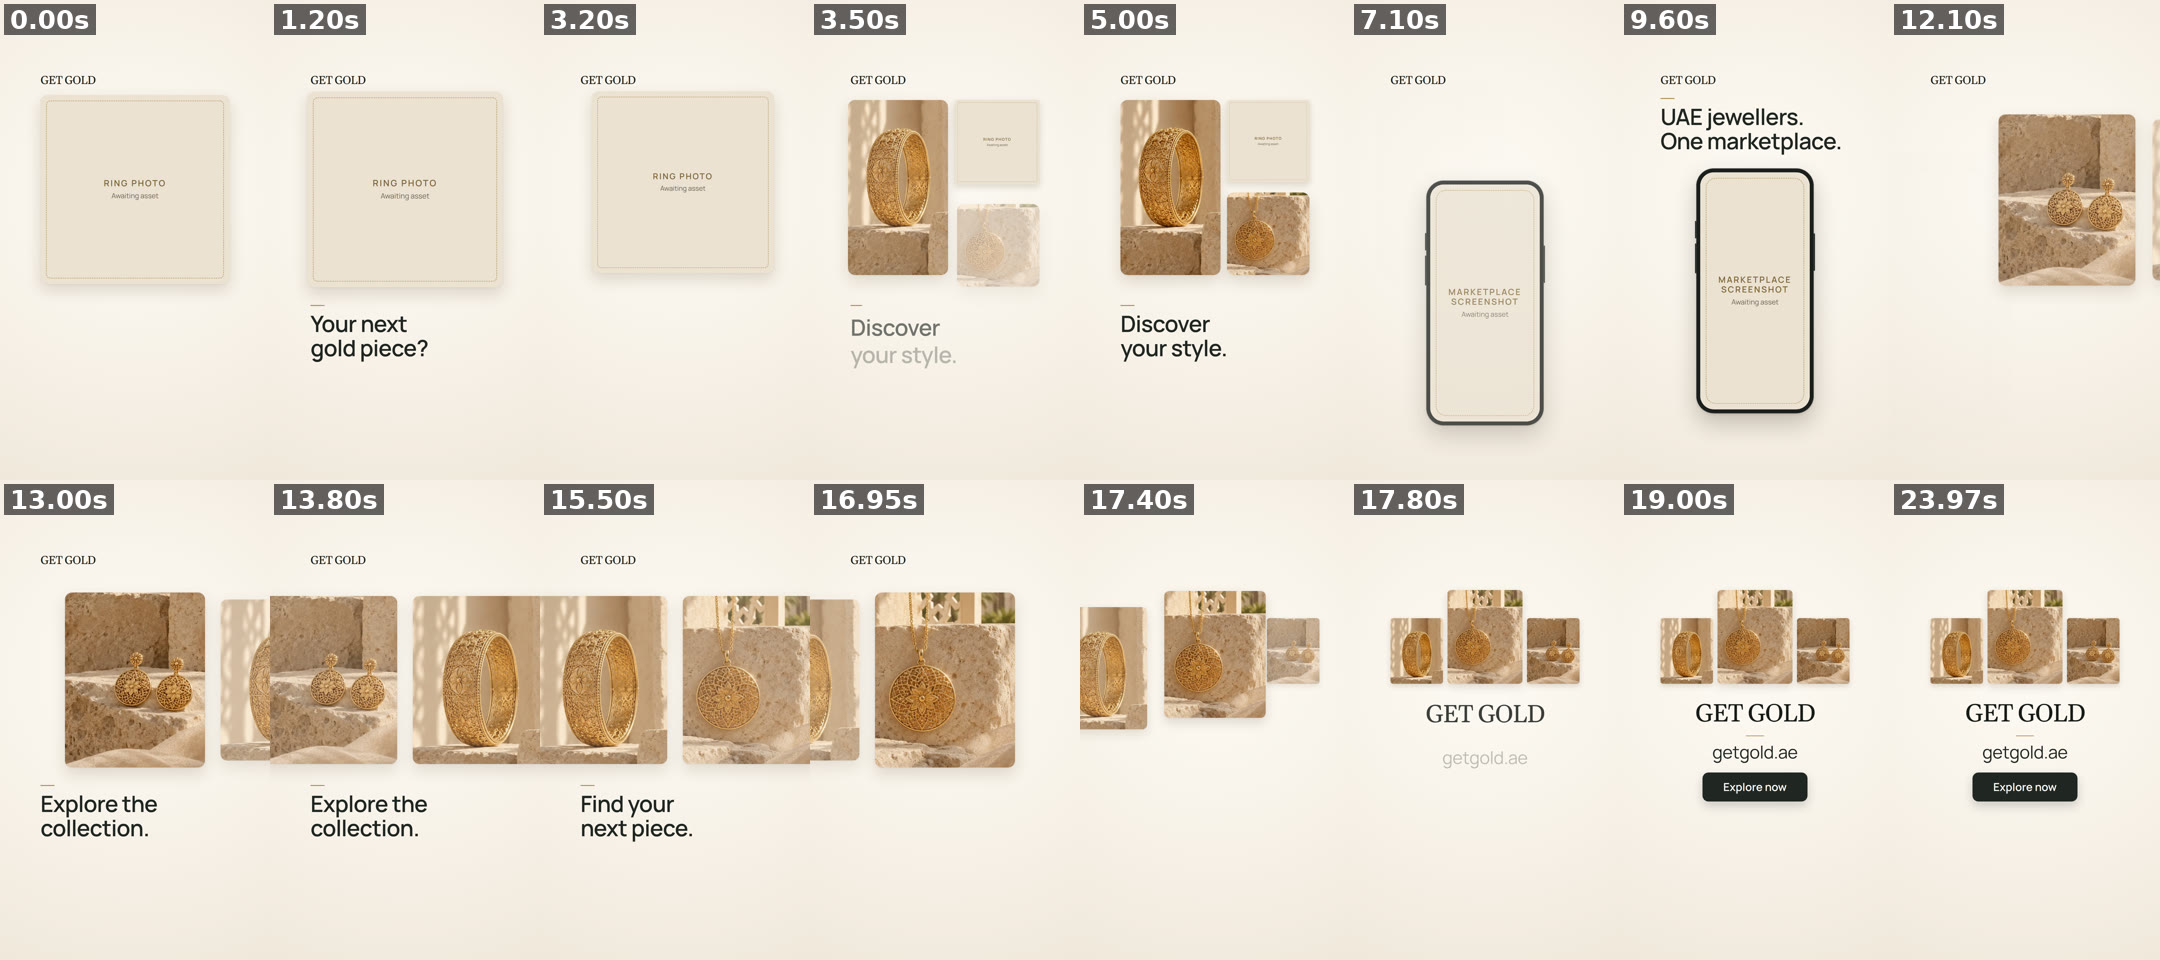
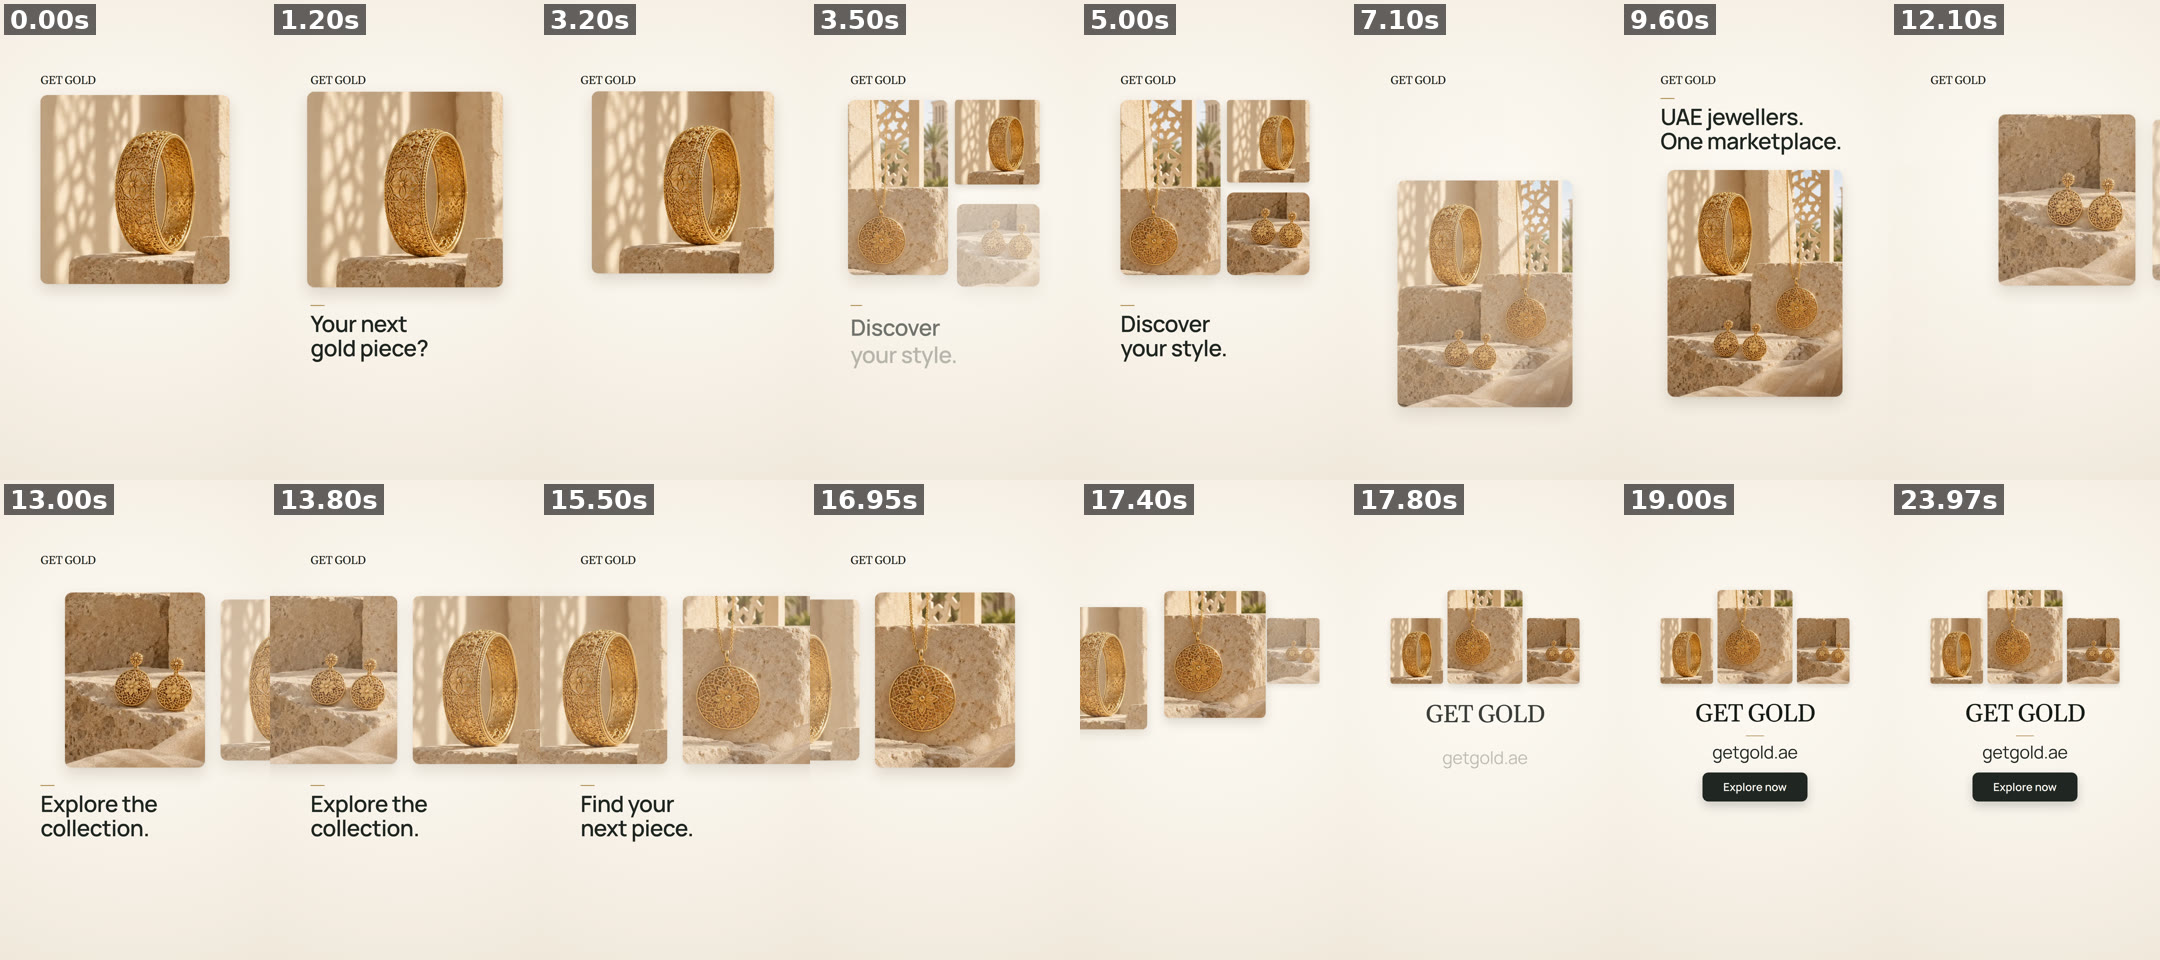
Finish the reel with the available assets instead of placeholders
When the ring photo is not supplied, the bangle opens the ad and the
necklace and earrings join it in scene 2. When the marketplace screenshot
is not supplied, scene 3 shows the full jewellery photograph instead of an
empty phone. Supplying either asset in config.js restores the briefed
layout. The placeholder boxes and their styles are removed, and the
preview's status, notes and file names no longer call the export a draft.

Claude-Session: https://claude.ai/code/session_017FUuHwjUyBeY9hKHnPxB1Y

Changed region(s): [[0.0, 0.0938, 0.8685, 0.4688]]

diff --git a/marketing/getgold-reel-24s/reel.js b/marketing/getgold-reel-24s/reel.js
@@ -30,8 +30,15 @@
   // aspect ratio, so the photo is never stretched.
   const HERO = { src: "assets/brand/uae-heritage-hero.webp", w: 1536, h: 1024 };
   const CROPS = {
+    // Scene 2 grid when a ring photo is supplied.
     bangleTall: [773, 0, 377], // 400 x 700 card
     necklaceSquare: [1150, 400, 386], // 330 x 330 card
+    // Without a ring photo: the bangle opens, the necklace and earrings join.
+    hookBangle: [620, 0, 565], // 756 x 756 card
+    necklaceTall: [1150, 80, 386], // 400 x 700 card
+    earringsSquare: [800, 600, 380], // 330 x 330 card
+    // Scene 3 without a marketplace screenshot: the whole photograph.
+    scene: [700, 0, 790], // 700 x 907 card
     earrings: [760, 492, 425], // 4:5 cards
     bangle: [748, 0, 425],
     necklace: [1150, 330, 386],
@@ -98,14 +105,6 @@
     return { x: r.x - (r.w * (k - 1)) / 2, y: r.y - (h * (k - 1)) / 2, w: r.w * k };
   }
 
-  function placeholder(parent, title, note) {
-    const ph = div("ph", parent);
-    const inner = div("ph-in", ph);
-    div("ph-k", inner).textContent = title;
-    div("ph-v", inner).textContent = note;
-    return ph;
-  }
-
   function loadImage(src) {
     return new Promise((resolve, reject) => {
       const img = new Image();
@@ -118,17 +117,22 @@
     });
   }
 
-  function cropCard(id, w0, h0, crop, heroImg, extraCls) {
-    const el = div("el card" + (extraCls ? " " + extraCls : ""), stage, w0, h0);
+  function card(id, w0, h0) {
+    const el = div("el card", stage, w0, h0);
     el.id = id;
     const media = div("media", el);
+    return { el, media, img: null, w0, h0, aspect: h0 / w0 };
+  }
+
+  // Show a crop of the brand photograph in a card (uniform scale, never stretched).
+  function setCrop(c, crop) {
     const [cx, cy, cw] = crop;
-    const k = w0 / cw;
-    const ch = (cw * h0) / w0;
+    const k = c.w0 / cw;
+    const ch = (cw * c.h0) / c.w0;
     if (cx < 0 || cy < 0 || cx + cw > HERO.w + 0.5 || cy + ch > HERO.h + 0.5) {
-      state.warnings.push(`Crop for ${id} leaves the source photo`);
+      state.warnings.push(`Crop for ${c.el.id} leaves the source photo`);
     }
-    const img = heroImg.cloneNode();
+    const img = state.hero.cloneNode();
     img.alt = "";
     Object.assign(img.style, {
       position: "absolute",
@@ -138,23 +142,37 @@
       height: HERO.h * k + "px",
       transformOrigin: `${(cx + cw / 2) * k}px ${(cy + ch / 2) * k}px`,
     });
-    media.appendChild(img);
-    return { el, media, img, w0, h0, aspect: h0 / w0 };
+    c.media.innerHTML = "";
+    c.el.classList.remove("cutout");
+    c.media.appendChild(img);
+    c.img = img;
+  }
+
+  function cropCard(id, w0, h0, crop) {
+    const c = card(id, w0, h0);
+    setCrop(c, crop);
+    return c;
   }
 
   /* ---------- slots (supplied assets) ---------- */
 
-  function fillRing(c, img) {
-    c.media.innerHTML = "";
-    c.el.classList.toggle("cutout", !!img && CFG.ringFit === "contain");
+  // With a ring photo: the ring opens, then sits beside the bangle and necklace.
+  // Without one: the bangle opens, then sits beside the necklace and earrings.
+  function applyRingLayout(img) {
+    const c = els.hook;
     if (img) {
+      c.media.innerHTML = "";
+      c.el.classList.toggle("cutout", CFG.ringFit === "contain");
       img.alt = "";
       img.className = "slot-img " + (CFG.ringFit === "contain" ? "fit-contain" : "fit-cover");
       c.media.appendChild(img);
       c.img = img;
+      setCrop(els.gridTall, CROPS.bangleTall);
+      setCrop(els.gridSquare, CROPS.necklaceSquare);
     } else {
-      placeholder(c.media, "Ring photo", "Awaiting asset");
-      c.img = null;
+      setCrop(c, CROPS.hookBangle);
+      setCrop(els.gridTall, CROPS.necklaceTall);
+      setCrop(els.gridSquare, CROPS.earringsSquare);
     }
   }
 
@@ -173,7 +191,6 @@
       state.scrollMax = Math.min(overflow, 560);
       els.shot = img;
     } else {
-      placeholder(screen, "Marketplace screenshot", "Awaiting asset");
       els.shot = null;
     }
   }
@@ -220,7 +237,7 @@
     try {
       return await loadImage(path);
     } catch (e) {
-      state.warnings.push(`${key}: ${e.message}. Showing the placeholder.`);
+      state.warnings.push(`${key}: ${e.message}. Left out.`);
       return null;
     }
   }
@@ -248,14 +265,15 @@
     stage.innerHTML = "";
     div("bg", stage);
 
-    const hero = await loadImage(HERO.src);
+    state.hero = await loadImage(HERO.src);
 
-    // Scene 2 grid (left tall, right column) and the ring that carries over from scene 1.
-    els.bangleTall = cropCard("bangleTall", 400, 700, CROPS.bangleTall, hero);
-    els.necklaceSq = cropCard("necklaceSq", 330, 330, CROPS.necklaceSquare, hero);
-    els.ring = { el: div("el card", stage, 756, 756), w0: 756, h0: 756, aspect: 1 };
-    els.ring.el.id = "ring";
-    els.ring.media = div("media", els.ring.el);
+    // Scene 2 grid (left tall, right column) and the opening piece that carries over from scene 1.
+    els.gridTall = card("gridTall", 400, 700);
+    els.gridSquare = card("gridSquare", 330, 330);
+    els.hook = card("hook", 756, 756);
+
+    // Scene 3: the photograph, or the phone once a screenshot is supplied.
+    els.scene = cropCard("scenePhoto", 700, 907, CROPS.scene);
 
     // Scene 3 phone.
     const phone = div("el phone", stage, 470, 980);
@@ -267,9 +285,9 @@
     els.phone = { el: phone, w0: 470, h0: 980 };
 
     // Scene 4 carousel; the same cards form the end composition.
-    els.carEarrings = cropCard("carEarrings", 560, 700, CROPS.earrings, hero);
-    els.carBangle = cropCard("carBangle", 560, 700, CROPS.bangle, hero);
-    els.carNecklace = cropCard("carNecklace", 560, 700, CROPS.necklace, hero);
+    els.carEarrings = cropCard("carEarrings", 560, 700, CROPS.earrings);
+    els.carBangle = cropCard("carBangle", 560, 700, CROPS.bangle);
+    els.carNecklace = cropCard("carNecklace", 560, 700, CROPS.necklace);
 
     els.headlines = HEADLINES.map(buildHeadline);
 
@@ -294,7 +312,7 @@
       trySlot("screenshot", CFG.screenshot),
     ]);
     state.slots = { logo: !!logoImg, ring: !!ringImg, screenshot: !!shotImg };
-    fillRing(els.ring, ringImg);
+    applyRingLayout(ringImg);
     fillScreen(shotImg);
     fillLogo(logoImg);
 
@@ -324,9 +342,9 @@
       }
     }
 
-    // Scene 1 to 2: the ring pushes in gently, then settles into the grid.
+    // Scene 1 to 2: the opening piece pushes in gently, then settles into the grid.
     {
-      const c = els.ring;
+      const c = els.hook;
       const R1 = { x: 162, y: 380, w: 756 };
       const R2 = { x: 588, y: 400, w: 330 };
       const push = (u) => 1 + 0.055 * (1 - Math.pow(1 - clamp(u / 3.0), 2));
@@ -339,31 +357,38 @@
       if (c.img) c.img.style.transform = `scale(${1 + 0.035 * prog(t, 3.6, 7.0, E.sine)})`;
     }
 
-    // Scene 2: bangle and necklace join 0.2 s apart.
+    // Scene 2: two more pieces join 0.2 s apart.
     {
-      const c = els.bangleTall;
+      const c = els.gridTall;
       const kin = prog(t, 3.2, 3.8, E.out);
       const out = prog(t, 6.7, 7.15);
       placeRect(c, { x: 162 - 80 * (1 - kin), y: 400 - 40 * out, w: 400 }, kin * (1 - out));
       c.img.style.transform = `scale(${1 + 0.035 * prog(t, 3.8, 7.0, E.sine)})`;
     }
     {
-      const c = els.necklaceSq;
+      const c = els.gridSquare;
       const kin = prog(t, 3.4, 4.0, E.out);
       const out = prog(t, 6.66, 7.12);
       placeRect(c, { x: 588, y: 770 + 80 * (1 - kin) - 40 * out, w: 330 }, kin * (1 - out));
       c.img.style.transform = `scale(${1 + 0.035 * prog(t, 4.0, 7.0, E.sine)})`;
     }
 
-    // Scene 3: upright, front-facing phone; one short scroll if the capture allows.
+    // Scene 3: with a screenshot, an upright, front-facing phone (one short
+    // scroll if the capture allows); without one, the whole photograph.
     {
       const kin = prog(t, 6.85, 7.5, E.out);
       const out = prog(t, 11.7, 12.15);
-      const drift = state.scrollMax > 0 ? 0 : 14 * prog(t, 7.6, 11.75, E.sine);
-      place(els.phone.el, 305 - 380 * out, 680 + 180 * (1 - kin) - drift, 1, kin * (1 - out));
+      const o = kin * (1 - out);
       if (els.shot) {
+        const drift = state.scrollMax > 0 ? 0 : 14 * prog(t, 7.6, 11.75, E.sine);
+        place(els.phone.el, 305 - 380 * out, 680 + 180 * (1 - kin) - drift, 1, o);
         const s = state.scrollMax * prog(t, 8.7, 10.6);
         els.shot.style.transform = `translateY(${-s.toFixed(2)}px)`;
+        place(els.scene.el, 190, 680, 1, 0);
+      } else {
+        placeRect(els.scene, { x: 190 - 380 * out, y: 680 + 180 * (1 - kin), w: 700 }, o);
+        els.scene.img.style.transform = `scale(${1 + 0.04 * prog(t, 7.5, 11.75, E.sine)})`;
+        place(els.phone.el, 305, 680, 1, 0);
       }
     }
 
@@ -541,7 +566,7 @@
     },
     async setSlotImage(key, url) {
       const img = await loadImage(url);
-      if (key === "ring") fillRing(els.ring, img);
+      if (key === "ring") applyRingLayout(img);
       else if (key === "screenshot") fillScreen(img);
       else if (key === "logo") fillLogo(img);
       state.slots[key] = true;

diff --git a/marketing/getgold-reel-24s/index.html b/marketing/getgold-reel-24s/index.html
@@ -56,16 +56,10 @@
   #stage .card.cutout .media { background: transparent; box-shadow: none; overflow: visible; }
   #stage .card.cutout .slot-img { filter: drop-shadow(0 28px 34px rgba(74, 56, 26, 0.2)); }
 
-  #stage .ph { position: absolute; inset: 0; background: #ebe2d2; }
-  #stage .ph-in { position: absolute; inset: 22px; border: 3px dashed #c3aa7b; border-radius: 18px; display: grid; place-content: center; gap: 12px; text-align: center; padding: 24px; }
-  #stage .ph-k { font: 600 34px/1.15 "GG Sans", sans-serif; letter-spacing: 0.14em; text-transform: uppercase; color: #7d6538; }
-  #stage .ph-v { font: 400 28px/1.3 "GG Sans", sans-serif; color: #6f6656; }
 
   #stage .phone { border-radius: 70px; background: #1b1f1c; padding: 16px; box-shadow: 0 3px 8px rgba(40, 30, 14, 0.12), 0 40px 90px rgba(40, 30, 14, 0.24), inset 0 0 0 2px #3a3f3b; }
   #stage .phone .screen { position: relative; width: 438px; height: 948px; border-radius: 54px; overflow: hidden; background: #f4eee3; }
   #stage .phone .screen .shot { width: 438px; height: auto; }
-  #stage .phone .screen .ph { border-radius: 54px; }
-  #stage .phone .screen .ph-in { border-radius: 40px; }
   #stage .phone .side { position: absolute; width: 6px; border-radius: 3px; background: #2a2f2b; }
   #stage .phone .side-a { left: -5px; top: 210px; height: 70px; }
   #stage .phone .side-b { left: -5px; top: 300px; height: 120px; }
@@ -180,8 +174,8 @@
       <button type="button" role="tab" id="tabLive" aria-selected="true" aria-controls="livePane">Live preview</button>
     </div>
     <div class="pane" id="videoPane" role="tabpanel" aria-labelledby="tabVideo" hidden>
-      <video id="mp4" class="video" controls playsinline preload="metadata" poster="downloads/poster.jpg" data-mp4="downloads/getgold-reel-24s-DRAFT.mp4" data-webm="downloads/getgold-reel-24s-DRAFT.webm"></video>
-      <p class="small" id="videoMsg">Draft export: 24.0 s, 1080 × 1920, with sound. The ring photo, screenshot and logo are still placeholders.</p>
+      <video id="mp4" class="video" controls playsinline preload="metadata" poster="downloads/poster.jpg" data-mp4="downloads/getgold-reel-24s.mp4" data-webm="downloads/getgold-reel-24s.webm"></video>
+      <p class="small" id="videoMsg">24.0 s, 1080 × 1920, 30 fps, with sound.</p>
     </div>
     <div class="pane" id="livePane" role="tabpanel" aria-labelledby="tabLive">
     <div class="frame" id="frame">
@@ -237,12 +231,12 @@
       <div class="rows">
         <div class="row">
           <span class="name">Gold ring photo</span><span class="pill" id="st-ring">…</span>
-          <span class="note">Scenes 1 and 2. Square crop works best; a transparent cut-out also works (set <code>ringFit: "contain"</code>).</span>
+          <span class="note">Opens the ad (scenes 1 and 2). Until one is supplied, the bangle opens and the necklace and earrings join it. Square crop works best; a transparent cut-out also works (set <code>ringFit: "contain"</code>).</span>
           <div class="actions"><label class="file">Try a file in this preview<input type="file" id="up-ring" accept="image/*"></label></div>
         </div>
         <div class="row">
           <span class="name">Marketplace screenshot</span><span class="pill" id="st-screenshot">…</span>
-          <span class="note">Scene 3, inside the phone. Portrait mobile capture; a tall capture scrolls once.</span>
+          <span class="note">Scene 3, inside an upright phone. Until one is supplied, scene 3 shows the full jewellery photograph instead. Portrait mobile capture; a tall capture scrolls once.</span>
           <div class="actions"><label class="file">Try a file in this preview<input type="file" id="up-screenshot" accept="image/*"></label></div>
         </div>
         <div class="row">
@@ -288,11 +282,11 @@
       <h2 id="exportTitle">Download</h2>
       <div class="buttons">
         <span class="dl" id="downloads" hidden>
-          <button class="btn primary" type="button" data-file="downloads/getgold-reel-24s-DRAFT.mp4" data-name="getgold-reel-24s-DRAFT.mp4">Download draft MP4</button>
+          <button class="btn primary" type="button" data-file="downloads/getgold-reel-24s.mp4" data-name="getgold-reel-24s.mp4">Download MP4</button>
         </span>
         <a class="btn" href="https://github.com/Mohamed95Amer/Mohamed95Amer/tree/claude/getgold-reel-24s/marketing/getgold-reel-24s" target="_blank" rel="noopener">Source files on GitHub</a>
       </div>
-      <p class="small" id="dlMsg" role="status" aria-live="polite">The MP4 is a draft: the ring photo, marketplace screenshot and logo are placeholders.</p>
+      <p class="small" id="dlMsg" role="status" aria-live="polite">Built from the assets available now. Add the ring photo, screenshot or logo and export again to include them.</p>
       <p class="small" id="dlNote" hidden>The MP4 download works when this page is opened on claude.ai.</p>
       <p class="small">The MP4 is rendered from the source folder with <code>node export.mjs</code>: Chromium captures all 720 frames from this same timeline, then ffmpeg encodes H.264 and AAC at 1080 × 1920, 30 fps.</p>
     </section>

diff --git a/marketing/getgold-reel-24s/player.js b/marketing/getgold-reel-24s/player.js
@@ -220,31 +220,23 @@
 
   function refreshStatus() {
     const slots = REEL.state.slots;
-    const label = (k, inConfig) =>
-      preview[k] ? ["info", "Preview file"] : slots[k] ? ["ok", inConfig ? "In use" : "In use"] : ["warn", "Missing"];
-    pill("#st-ring", ...label("ring", true));
-    pill("#st-screenshot", ...label("screenshot", true));
-    if (slots.logo || preview.logo) pill("#st-logo", ...label("logo", true));
-    else pill("#st-logo", "warn", "Interim wordmark");
+    const label = (k, absent) => (preview[k] ? ["info", "Preview file"] : slots[k] ? ["ok", "In use"] : ["warn", absent]);
+    pill("#st-ring", ...label("ring", "Not supplied"));
+    pill("#st-screenshot", ...label("screenshot", "Not supplied"));
+    pill("#st-logo", ...label("logo", "Interim wordmark"));
     $("#logoNote").textContent = slots.logo
       ? "Shown top-left from frame one and in the end lockup."
       : "Until the official file arrives, the reel sets “GET GOLD” in a serif as the website header does. Shown top-left from frame one and in the end lockup.";
 
-    const missing = [];
-    if (!slots.ring) missing.push("ring photo");
-    if (!slots.screenshot) missing.push("marketplace screenshot");
+    const left = [];
+    if (!slots.ring) left.push("ring photo (the bangle opens instead)");
+    if (!slots.screenshot) left.push("marketplace screenshot (scene 3 shows the jewellery photograph)");
+    if (!slots.logo) left.push("official logo (the wordmark stands in)");
     const status = $("#status");
-    if (missing.length || !slots.logo) {
-      status.className = "status";
-      const parts = [];
-      if (missing.length) parts.push(`the ${missing.join(" and ")} ${missing.length > 1 ? "are" : "is"} missing and shown as labelled placeholders`);
-      if (!slots.logo) parts.push("the logo is an interim wordmark");
-      const sentence = parts.join("; ");
-      status.innerHTML = `<strong>Draft, not the finished ad.</strong> ${sentence.charAt(0).toUpperCase() + sentence.slice(1)}.`;
-    } else {
-      status.className = "status ok";
-      status.innerHTML = "<strong>All visual assets in place.</strong> Timing, copy and layout are final.";
-    }
+    status.className = "status ok";
+    status.innerHTML = left.length
+      ? `<strong>Finished with the assets available.</strong> Left out for now: ${left.join("; ")}.`
+      : "<strong>All assets in place.</strong> Timing, copy and layout are final.";
     const w = REEL.state.warnings;
     const box = $("#warnings");
     box.hidden = !w.length;

diff --git a/marketing/getgold-reel-24s/README.md b/marketing/getgold-reel-24s/README.md
@@ -9,19 +9,20 @@ Central message: **UAE jewellers. One marketplace.**
 
 ## Status
 
-**Draft.** The framework, timing, copy, layout, soundtrack and export are done.
-Three supplied assets are still missing. The first two appear as labelled
-placeholders in the preview and in any exported MP4:
+**Finished with the assets available.** Timing, copy, layout, soundtrack and
+export are done. Three supplied assets have not arrived yet. The reel leaves
+them out instead of showing empty placeholders, and switches back to the
+briefed layout as soon as each one is added to `config.js`:
 
-| Slot | Used in | Now |
+| Asset | Briefed use | Until it is supplied |
 | --- | --- | --- |
-| Gold ring product photo | Scenes 1–2 | Placeholder |
-| GetGold marketplace screenshot (mobile, portrait) | Scene 3 | Placeholder |
-| Official logo file (SVG or transparent PNG) | Every scene, discreet top-left, then the end lockup | Interim: the "GET GOLD" wordmark set in a serif (Gelasio), as the website header renders it |
+| Gold ring product photo | Opens the ad (scenes 1–2) | The bangle opens; the necklace and earrings join it in scene 2 |
+| GetGold marketplace screenshot (mobile, portrait) | Upright phone in scene 3 | Scene 3 shows the full jewellery photograph under "UAE jewellers. One marketplace." |
+| Official logo file (SVG or transparent PNG) | Top-left throughout, then the end lockup | The "GET GOLD" wordmark set in a serif (Gelasio), as the website header renders it |
 
-In use now: the bangle, necklace and earrings from the getgold.ae homepage
-photograph (`public/images/uae-heritage-hero.webp`). They are cropped for each
-card but not otherwise altered.
+All jewellery comes from the getgold.ae homepage photograph
+(`public/images/uae-heritage-hero.webp`). It is cropped for each card but not
+otherwise altered.
 
 Not used: the earlier October motion pieces in `public/social/2026-10/`. They
 show illustrated jewellery with store names and prices, which this brief rules
@@ -74,9 +75,9 @@ server, not as a `file://` URL.
 
 | Time | Scene | On screen | Copy |
 | --- | --- | --- | --- |
-| 0.0–3.0 | 1 The hook | Large ring photo, gentle 5.5% push-in; logo top-left from frame one | "Your next gold piece?" (in 0.25 s, out by 2.95 s) |
-| 3.0–7.0 | 2 Discovery | Ring settles into a grid; bangle (3.2 s) and necklace (3.4 s) join; settled by 4.0 s | "Discover your style." (3.35–6.85 s) |
-| 7.0–12.0 | 3 The marketplace | Upright phone with the marketplace screenshot; one short scroll if the capture allows | "UAE jewellers. / One marketplace." (7.3–11.75 s) |
+| 0.0–3.0 | 1 The hook | Large ring photo (bangle until supplied), gentle 5.5% push-in; logo top-left from frame one | "Your next gold piece?" (in 0.25 s, out by 2.95 s) |
+| 3.0–7.0 | 2 Discovery | Opening piece settles into a grid; two more pieces join at 3.2 s and 3.4 s; settled by 4.0 s | "Discover your style." (3.35–6.85 s) |
+| 7.0–12.0 | 3 The marketplace | Upright phone with the marketplace screenshot (one short scroll if the capture allows); the full photograph until supplied | "UAE jewellers. / One marketplace." (7.3–11.75 s) |
 | 12.0–17.0 | 4 Exploration | Horizontal browse: earrings → bangle → necklace | "Explore the collection." (12.2–14.4 s), then "Find your next piece." (14.6–16.85 s) |
 | 17.0–24.0 | 5 Brand and action | Three jewellery images, logo, "getgold.ae", charcoal "Explore now" button; settled by 18.45 s, held still to 24.0 s, no fade | "getgold.ae" · "Explore now" |
 
